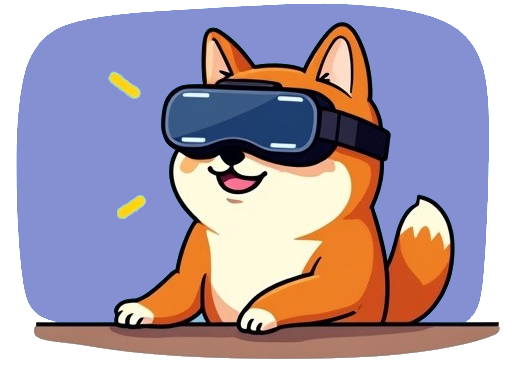
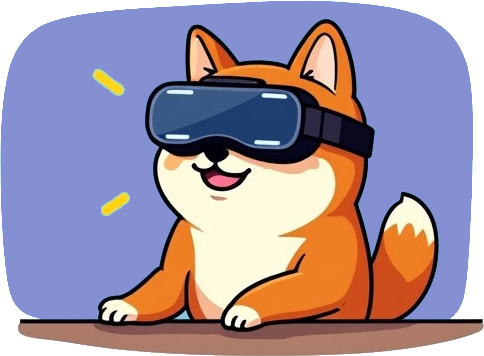
Fix issues
- Optimised Images
- Changed some CSS
- Changed some URLS to DogeBox Git

diff --git a/index.html b/index.html
@@ -17,12 +17,12 @@
     <link rel="manifest" href="/site.webmanifest">
 
     <!-- image preloads -->
-    <link rel="preload" href="img/3A.JPG" as="image">
-    <link rel="preload" href="img/3B.JPG" as="image">
-    <link rel="preload" href="img/3C.JPG" as="image">
-    <link rel="preload" href="img/4A.JPG" as="image">
-    <link rel="preload" href="img/4B.JPG" as="image">
-    <link rel="preload" href="img/4C.JPG" as="image">
+    <link rel="preload" href="img/3A.jpg" as="image">
+    <link rel="preload" href="img/3B.jpg" as="image">
+    <link rel="preload" href="img/3C.jpg" as="image">
+    <link rel="preload" href="img/4A.jpg" as="image">
+    <link rel="preload" href="img/4B.jpg" as="image">
+    <link rel="preload" href="img/4C.jpg" as="image">
 
     <meta name="theme-color" content="#319197">
 
@@ -43,12 +43,12 @@
       <main>
         <div class="wrap">
           <h1>Meet<br />Dogebox</h1>
-          <h3 style="margin-bottom: 1.5em">
+          <h3 style="margin-bottom: 1.5em;background-color: rgba(0, 0, 0, 0.5); max-width: 500px;">
             The Dogecoin ecosystem platform — decentralised and grassroots, self-hosted and secure. Build the future of Dogecoin, your way.
           </h3>
           <div class="primary-button-group">
-            <a class="button primary" onclick="dismissAlert()" href="#pre-order">Such Pre-Order</a>
-            <a class="button text small external" href="https://dogebox-docs.dogecoin.org/" target="_blank">View docs</a>
+            <a class="button primary" onclick="dismissAlert()" href="#pre-order" style="min-width: 100px; border-radius: 5px;">Such Pre-Order</a>
+            <a class="button text small external" href="https://dogebox-docs.dogecoin.org/" target="_blank" style="min-width: 140px; text-align: center; display: block; border-radius: 5px;">View docs</a>
           </div>
         </div>
       </main>
@@ -216,7 +216,7 @@ With Dogenet bringing these nodes together around communities of decentralised s
               The Dogecoin Runtime Environment is a secure, containerised space for services that need to access the Dogecoin network and ecosystem. Leveraging standards like Linux Namespaces and Systemd with mediated access to standard API interfaces, Dogebox creates a safe way to develop applications that you can share directly with the community, built on common APIs with pluggable providers which isolates you from upstream API changes while gaining the benefits of upstream enhancements. OR if you want to go direct and call Core APIs directly you can, the power is in your hands.
             </article>
           </div>
-          <a href="/img/5.JPG" class="more-link">View screenshots</a>
+          <a href="/img/5.jpg" class="more-link">View screenshots</a>
         </div>
       </main>
       <aside id="BuildGraphic"></aside>
@@ -290,9 +290,9 @@ With Dogenet bringing these nodes together around communities of decentralised s
             Run the fully open-source software FREE today (and forever) on your own hardware.
           </h3>
           <div id="DiyRange">
-            <a href="https://dogebox-docs.dogecoin.org/install.html#diy-installation-options" class="no-deco" target="_blank">
+            <a href="https://github.com/dogeorg/dogebox" class="no-deco" target="_blank">
               <div class="grid-item">
-                <span class="title">BYO</span>
+                <span class="title">RUN</span>
                 <img src="/img/diy_1.png" />
                 <span class="subtitle">Run Dogebox on your existing hardware</span>
                 <span class="example"></span>
@@ -308,7 +308,7 @@ With Dogenet bringing these nodes together around communities of decentralised s
               </div>
             </a>
 
-            <a href="https://dogebox-docs.dogecoin.org/install.html#diy-installation-options" class="no-deco" target="_blank">
+            <a href="https://github.com/dogeorg/dogebox/releases" class="no-deco" target="_blank">
               <div class="grid-item">
                 <span class="title" style="background: var(--color-green);">Images</span>
                 <img src="/img/diy_3.png" />
@@ -317,7 +317,7 @@ With Dogenet bringing these nodes together around communities of decentralised s
               </div>
             </a>
 
-            <a href="https://dogebox-docs.dogecoin.org/install.html#diy-installation-options" class="no-deco" target="_blank">
+            <a href="https://github.com/dogeorg/dogebox/releases" class="no-deco" target="_blank">
               <div class="grid-item">
                 <span class="title" style="background:#91a0ff">VM Images</span>
                 <img src="/img/diy_4.png" />
@@ -413,7 +413,7 @@ With Dogenet bringing these nodes together around communities of decentralised s
         });
 
         event.target.classList.add('selected');
-        targetEl.style.backgroundImage = `url("../img/${graphic}.JPG")`;
+        targetEl.style.backgroundImage = `url("../img/${graphic}.jpg")`;
         targetArticle.classList.add('active');
       }
     </script>

diff --git a/styles/primitives.css b/styles/primitives.css
@@ -49,7 +49,7 @@ p {
 }
 
 h1 {
-  font-family: "Montserrat", sans-serif;
+  font-family: "Comic Neue";
   font-optical-sizing: auto;
   font-weight: 900;
   font-style: normal;
@@ -57,7 +57,7 @@ h1 {
 }
 
 h3 {
-  font-family: "Lato", sans-serif;
+  font-family: "Comic Neue";
   font-weight: 300;
   font-style: normal;
   line-height: 1.5;
@@ -74,7 +74,7 @@ h3 {
 }
 
 .longform p {
-  font-family: "Lato", sans-serif;
+  font-family: "Comic Neue";
   font-weight: 300;
   font-style: normal;
   line-height: 1.5;
@@ -116,11 +116,12 @@ div.divider.or::after {
   text-decoration: none;
   user-select: none;
 
-  font-family: "Montserrat", sans-serif;
+  font-family: "Comic Neue";
   font-optical-sizing: auto;
   font-weight: 600;
   font-style: normal;
-
+  border-top-right-radius: 5px;
+  border-top-left-radius: 5px;
   padding: 1.2em 1em;
   &.small { padding: .4em .6em; }
 
@@ -139,12 +140,12 @@ div.divider.or::after {
     &:hover { background: #470082;
     &:active { background: #8a2cd7; } }
   }
-  &.secondary { background: var(--color-lobster-super-dark);
+  &.secondary { background: var(--color-lobster-super-dark); color: #fff;
     &:hover { background: var(--color-lobster-dark);
     &:active { background: var(--color-lobster-light) } }
     &.selected { background: var(--color-lobster); border-color: var(--color-lobster); }
   }
-  &.yellow { background: var(--color-yellow-super-dark);
+  &.yellow { background: var(--color-yellow-super-dark);  color: #000; 
     &:hover { background: var(--color-yellow-dark);
     &:active { background: var(--color-yellow-light) } }
     &.selected { background: var(--color-yellow); border-color: var(--color-yellow); }
@@ -189,7 +190,7 @@ div.divider.or::after {
   gap: .5em;
   &.start { justify-content: flex-start; }
   &.center { justify-content: center; }
-  &.end { justify-content: flex-end; }
+  &.end { justify-content: flex-end; color: #000; }
 }
 
 a.more-link {

diff --git a/styles/sections.css b/styles/sections.css
@@ -145,14 +145,15 @@ section.walled aside {
   align-items: center;
   
   opacity: 0.65;
-  border-radius: 60px;
+  border-top-left-radius: 20px;
+  border-bottom-right-radius: 20px;
   margin: 2em;
 }
 
-.bg1 aside { background-image: url("../img/2.JPG"); background-size: cover; background-position: bottom; }
-.bg2 aside { background-image: url("../img/3B.JPG"); background-size: cover; background-position: bottom; }
-.bg3 aside { background-image: url("../img/4A.JPG"); background-size: cover; }
-.bg4 aside { opacity: 0.65 !important; background-image: url("../img/5.JPG"); background-size: cover; background-position: bottom; z-index:1; }
+.bg1 aside { background-image: url("../img/2.jpg"); background-size: cover; background-position: bottom; }
+.bg2 aside { background-image: url("../img/3B.jpg"); background-size: cover; background-position: bottom; }
+.bg3 aside { background-image: url("../img/4A.jpg"); background-size: cover; }
+.bg4 aside { opacity: 0.65 !important; background-image: url("../img/5.jpg"); background-size: cover; background-position: bottom; z-index:1; }
 .bg4 div#BuildUnder {
   display: none;
   position: absolute;
@@ -319,6 +320,6 @@ section.centered {
   }
 
   &.lobster { background: var(--color-lobster); }
-  &.yellow { background: var(--color-yellow); }
-  &.green { background: var(--color-green); }
+  &.yellow { background: var(--color-yellow); color: black;  }
+  &.green { background: var(--color-green); color: black; }
 }

diff --git a/styles/components.css b/styles/components.css
@@ -63,7 +63,7 @@
   z-index: 98;
   font-size: 2em;
   color: black;
-  font-family: 'Montserrat';
+  font-family: "Comic Neue";
   font-weight: bold;
   display: flex;
   align-items: center;
@@ -146,18 +146,19 @@
       display: flex;
       align-items: center;
       justify-content: center;
-      font-family: 'Comic Neue';
+      font-family: "Comic Neue";
     }
 
     span.title {
       padding: 10px;
       background: #ffc107;
       color: black;
-      font-family: 'Montserrat';
+      font-family: "Comic Neue";
       font-weight: 600;
       align-self: flex-start;
       width: 100%;
       box-sizing: border-box;
+      border-bottom-right-radius: 5px;
       @media (min-width: 576px) {
         width: auto;
       }
@@ -179,7 +180,7 @@
       display: block;
       width: 80%;
       margin: 0 auto;
-      font-family: 'Comic Neue';
+      font-family: "Comic Neue";
       padding: .3em 1em;
       background: #111;
       border-radius: 8px;
